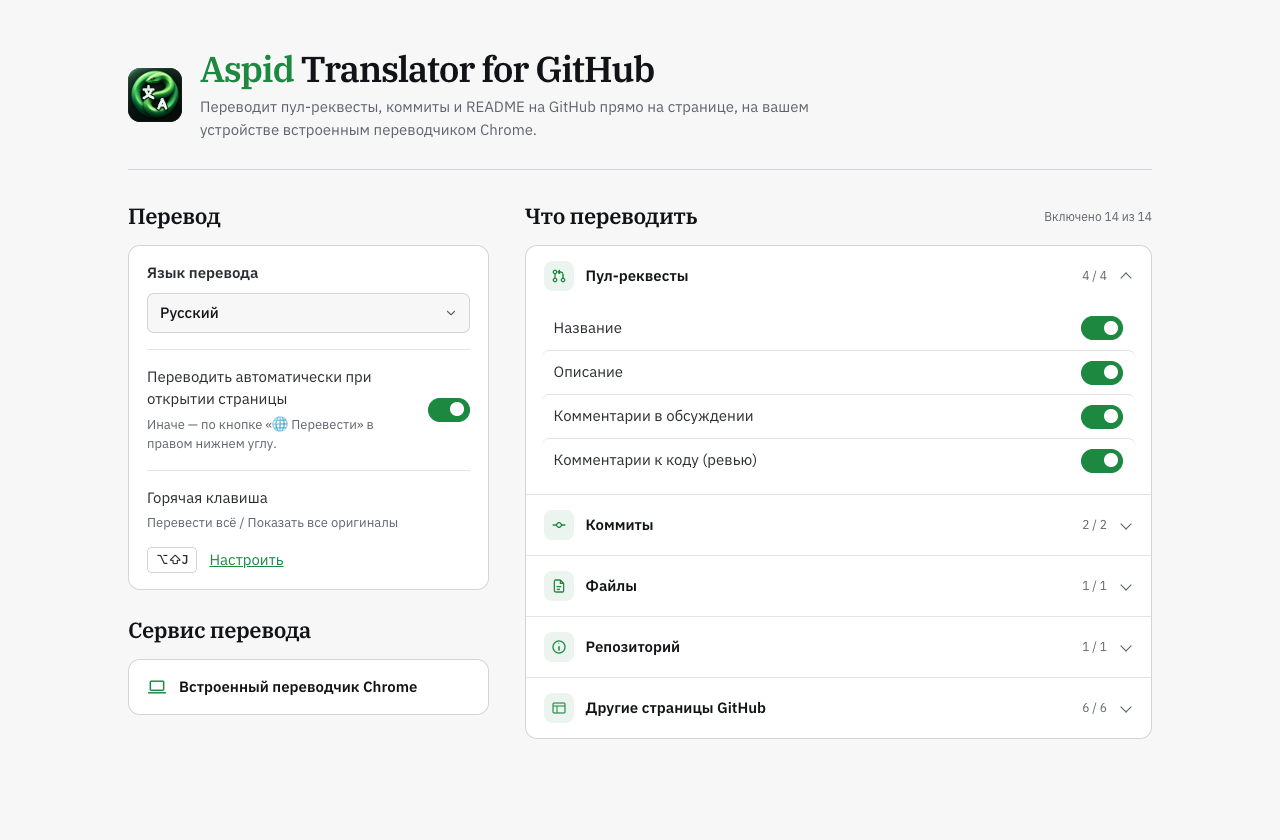
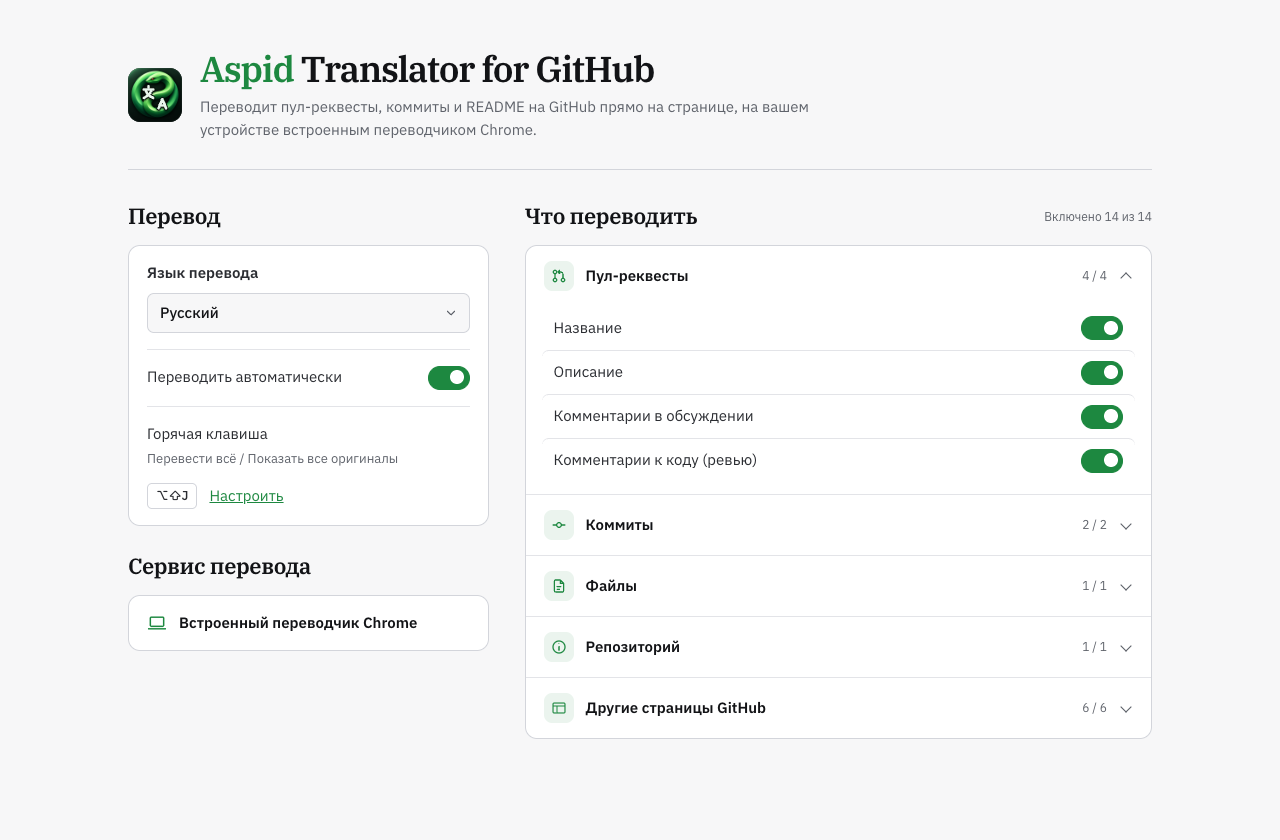
fix(options): shorten the automatic translation setting
- Shorten the switch label across all supported languages.
- Show its description on hover or keyboard focus and dismiss it with Escape.

diff --git a/static/options.html b/static/options.html
@@ -67,6 +67,13 @@
     .general .row { padding: 16px 18px; }
     .general .row:has(select) { display: grid; gap: 8px; font-weight: 600; }
     .divider { height: 1px; margin-inline: 18px; background: var(--hair); }
+    .auto-setting { position: relative; }
+    .auto-tip {
+      display: none; position: absolute; z-index: 1; inset-block-start: 100%; inset-inline: 12px auto;
+      max-width: calc(100% - 24px); padding: 6px 10px; border: 1px solid var(--line);
+      border-radius: 6px; background: var(--strong); color: var(--panel); font-size: 13px;
+    }
+    .auto-setting:not(.dismissed):is(:hover, :has(:focus-visible)) .auto-tip { display: block; }
     .text { display: grid; gap: 4px; min-width: 0; }
     .hint { color: var(--muted); font-size: 13px; text-wrap: pretty; }
     .group-body p { padding: 4px 12px 6px; }
@@ -143,10 +150,13 @@
             </div>
           </div>
           <div class="divider"></div>
-          <label class="row">
-            <span class="text"><span data-i18n="settingsAuto"></span><span class="hint" data-i18n="settingsAutoHint"></span></span>
-            <input type="checkbox" role="switch" class="switch" id="auto">
-          </label>
+          <div class="auto-setting">
+            <label class="row">
+              <span data-i18n="settingsAuto"></span>
+              <input type="checkbox" role="switch" class="switch" id="auto" aria-describedby="auto-tip">
+            </label>
+            <span class="auto-tip" id="auto-tip" role="tooltip" data-i18n="settingsAutoHint"></span>
+          </div>
           <div class="divider"></div>
           <div class="row shortcut">
             <span class="text"><span data-i18n="shortcutTitle"></span><span class="hint" data-i18n="shortcutToggle"></span></span>

diff --git a/src/options.js b/src/options.js
@@ -6,7 +6,15 @@ import { PROVIDERS, getProvider } from './providers/index.js';
 const $ = (id) => document.getElementById(id);
 const form = $('form');
 const partSwitch = (key) => form.querySelector(`[data-part="${key}"]`);
+const autoSetting = $('auto').closest('.auto-setting');
 let hideToast;
+
+for (const event of ['pointerenter', 'focusin']) {
+  autoSetting.addEventListener(event, () => autoSetting.classList.remove('dismissed'));
+}
+document.addEventListener('keydown', event => {
+  if (event.key === 'Escape') autoSetting.classList.add('dismissed');
+});
 
 function readForm() {
   return {
